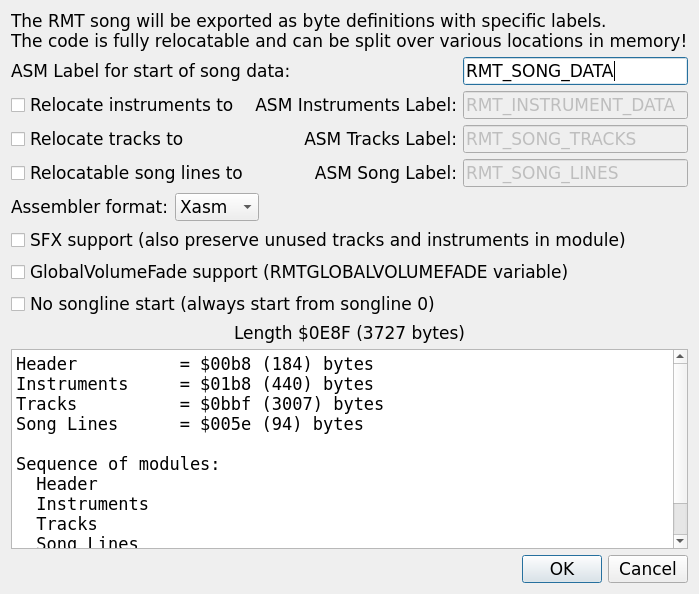
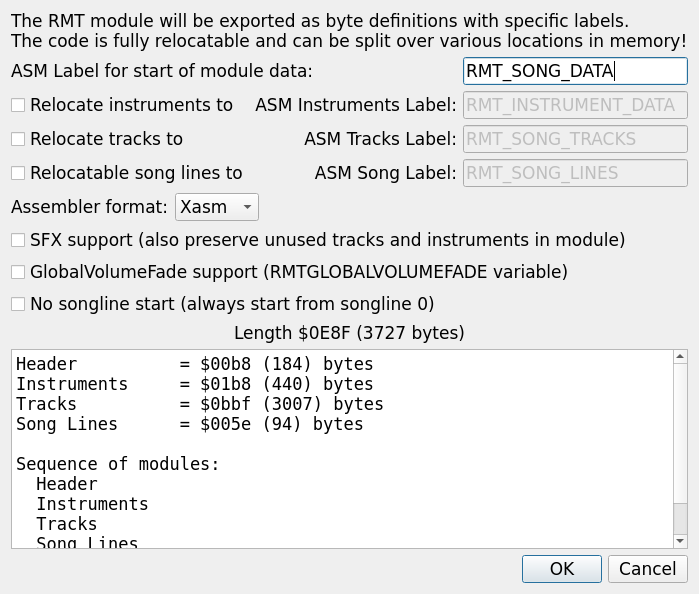
Subsong where a subsong is meant, module where the file is meant (as in RMT 1.36, d75db79)
- The SAP export's field: "first is the default subsong" (was "default
  song"), what the format itself calls it.
- The relocatable ASM export exports the module: "The RMT module will be
  exported as byte definitions", "ASM Label for start of module data".
  "ASM Song Label" and "Relocatable song lines to" stay: they name the
  song lines.
- doc/rmt_scripting.md: open, save and export act on the module file.
- README: module file format, stripped module file.
- doc/rmt_format.md: "Only one subsong per module" among the RMT 2.0
  goals, as upstream.
Both dialogs in Rmt.rc and in the Qt frontend; the manual's chapter and
its two screenshots of these dialogs follow.

Changed region(s): [[0.1202, 0.0, 0.9013, 0.0606], [0.3004, 0.0909, 0.4506, 0.1515]]

diff --git a/src/qt/RmtQtDialogs.cpp b/src/qt/RmtQtDialogs.cpp
@@ -627,7 +627,7 @@ static INT_PTR RunExportRelocatableAsm(QWidget* parent, CExportRelocatableAsmFor
     dialog.setWindowTitle("Export ASM for RmtPlayer.asm");
     auto* layout = new QVBoxLayout(&dialog);
 
-    layout->addWidget(new QLabel("The RMT song will be exported as byte definitions with specific labels.\n"
+    layout->addWidget(new QLabel("The RMT module will be exported as byte definitions with specific labels.\n"
                                  "The code is fully relocatable and can be split over various locations in memory!"));
 
     // CExportRelocatableAsmForRmtPlayer::OnInitDialog(): default labels
@@ -638,7 +638,7 @@ static INT_PTR RunExportRelocatableAsm(QWidget* parent, CExportRelocatableAsmFor
 
     auto* grid = new QGridLayout;
     auto* songLabel = UpperCaseEdit(FromCString(dlg->m_strAsmLabelForStartOfSong));
-    grid->addWidget(new QLabel("ASM Label for start of song data:"), 0, 0, 1, 2);
+    grid->addWidget(new QLabel("ASM Label for start of module data:"), 0, 0, 1, 2);
     grid->addWidget(songLabel, 0, 2);
     auto addRelocation = [&](int row, const char* check, const char* label, const CString& value, BOOL on) {
         auto* box = new QCheckBox(check);
@@ -743,7 +743,7 @@ static INT_PTR RunExportSap(QWidget* parent, CSAPFileExportDialog* dlg)
     auto* author = addField("AUTHOR", dlg->m_author);
     auto* date = addField("DATE", dlg->m_date);
     date->setMaximumWidth(dlg->m_noSubsongs ? 400 : 120);
-    auto* subsongs = addField("Subsongs (hexadecimal song line number for each subsong, first is default song):", dlg->m_subsongs);
+    auto* subsongs = addField("Subsongs (hexadecimal song line number for each subsong, first is the default subsong):", dlg->m_subsongs);
     text->setVisible(!dlg->m_noSubsongs);
     subsongs->setVisible(!dlg->m_noSubsongs);
 

diff --git a/doc/manual/chapters/12-importexport.tex b/doc/manual/chapters/12-importexport.tex
@@ -110,7 +110,7 @@ The module goes after the program, up to \texttt{\$B820}: about 24\,KB; a bigger
 
 \dialog{dialog-export-reloc-asm}{The export of a relocatable module.}{10cm}
 
-The module is written as byte definitions with labels (the one of the start of the song data, and optionally separate labels for the
+The module is written as byte definitions with labels (the one of the start of the module data, and optionally separate labels for the
 instruments, the tracks and the song lines, which can be placed in different places of memory). The text box shows the size of each
 part and the order of the modules.
 

diff --git a/doc/rmt_scripting.md b/doc/rmt_scripting.md
@@ -1,6 +1,6 @@
 # RITMO Scripting
 
-RITMO can run a script file from the command line: open a song,
+RITMO can run a script file from the command line: open a module file,
 set what the export dialogs would ask, export in any format, save. This is
 meant for batch files, build scripts and CI, where the SAP, XEX, WAV and ASM
 files of a song are produced from its `.rmt` source reproducibly, and for
@@ -55,7 +55,7 @@ Exit codes of the command line:
   values (texts, labels, file names) keep their case.
 - Yes/no options accept `yes`, `no`, `true`, `false`, `on`, `off`, `1`, `0`.
 - Relative file names are relative to the script file's folder, so a
-  script travels with its songs. Output files (`save`, `export`) go to the
+  script travels with its module files. Output files (`save`, `export`) go to the
   folder of `set output` instead when the script gave one; the folder is
   created when it is missing.
 - An output file that exists already is an error, unless the script says
@@ -65,9 +65,9 @@ Exit codes of the command line:
 
 | Command | Meaning |
 |---|---|
-| `open <file>` | Opens a song. The format follows the extension: `.rmt`, `.txt` or `.rmw` (as File > Open). |
-| `save <file>` | Saves the song as `.rmt`, `.txt` or `.rmw` by extension (as File > Save as). The RMT format's integrity check applies. |
-| `export <format> <file> [name=value ...]` | Exports the song (as File > Export as). Formats and options below. |
+| `open <file>` | Opens a module file. The format follows the extension: `.rmt`, `.txt` or `.rmw` (as File > Open). |
+| `save <file>` | Saves the module as `.rmt`, `.txt` or `.rmw` by extension (as File > Save as). The RMT format's integrity check applies. |
+| `export <format> <file> [name=value ...]` | Exports the module (as File > Export as). Formats and options below. |
 | `set overwrite yes\|no` | Whether later `save`/`export` commands may replace existing files. Default `no`. |
 | `set output <folder>` | Where later `save`/`export` commands write (relative to the script's folder; created when missing). Default: the script's folder. |
 | `set ntsc yes\|no` | The Options dialog's NTSC setting (the video standard: 60 or 50 frames per second, and the POKEY clock). |

diff --git a/README.md b/README.md
@@ -289,9 +289,9 @@ Note that this is as of RMT 1.28 and not accurate for 1.34 and later!
 * Up to 256 lines for song (with "goto line" support).
 * Beat speed 1 to 255 (1/50 to 255/50 sec).
 * Instrument speed from 1 to 4 per screen (up to 1/200 sec).
-* Main input/output song file format: RMT song files (*.rmt).
+* Main input/output module file format: RMT module files (*.rmt).
 * Input/output instrument file format: RMT instrument files (*.rti).
-* Export formats: RMT stripped song file (*.rmt), SAP file (*.sap),
+* Export formats: RMT stripped module file (*.rmt), SAP file (*.sap),
   XEX Atari executable MSX file (*.xex), ASM simple notation source (*.asm).
 * Import formats: ProTracker modules (*.mod), Atari XE/XL Theta Music Composer songs (*.tmc)
 * Support for speed/size optimizations of RMT assembler player routine 

diff --git a/doc/rmt_format.md b/doc/rmt_format.md
@@ -171,7 +171,7 @@ This new version has the following design goals:
     - No metadata about the song name and instruments (relevant for archiving, e.g. on ASMA)
 	- No way to re-create an editable version of the module (relevant for updates, remixing, learning)
 	- No size-optimized replay (relevant for certain demo categories)
-	- Only one song per module (often required in games)
+	- Only one subsong per module (several are often required in games)
 	- No ability to play effect instruments individually while the main music is playing (often required in games)
 
 - `G2 Distinguishability`
